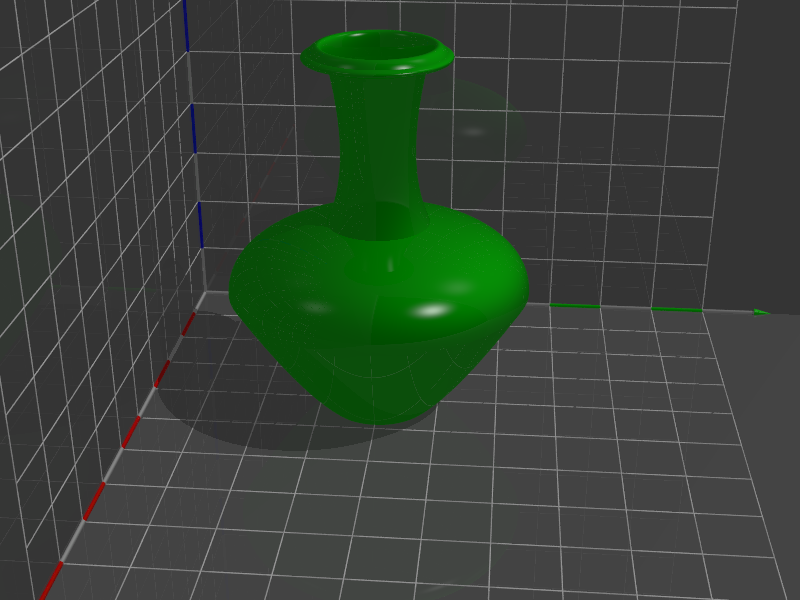
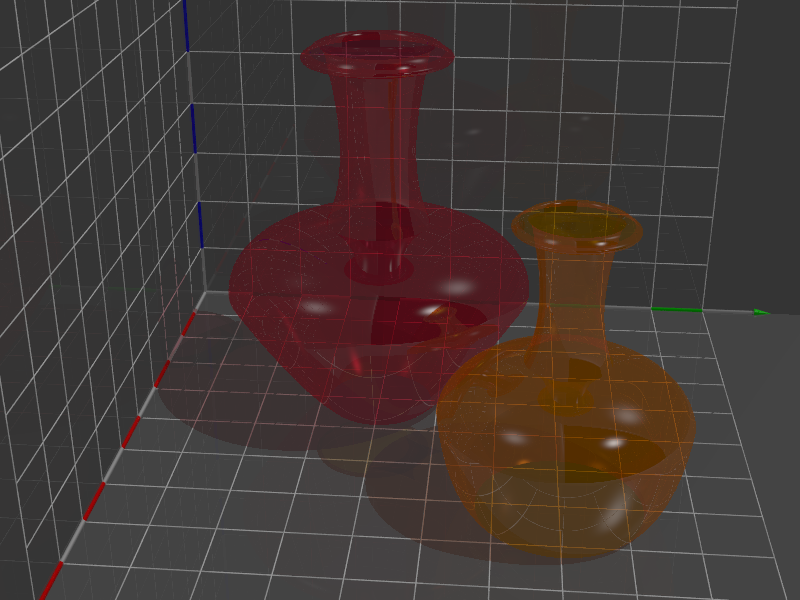
Renaming, example

diff --git a/examples/lathe.m b/examples/lathe.m
@@ -91,7 +91,14 @@ tex_pink  = pov.declare("tex_pink",  pov.texture('pigment', [8 2 3], 'finish', '
 pov.lathe('points', [0.00 0.00; 0.22 0.00; 0.62 0.54; 0.21 0.83; 0.19 1.46; 0.29 1.50; 0.26 1.53],...
         'spline_type', 'quadratic_spline',...
         'sturm', true,...
+        'texture', 'Ruby_Glass',...
         'scale', [4 4 4], 'rotate', [ 90 0 0], 'translate', [4 4 0]);
+
+pov.lathe('points', [0.00 0.00; 0.42 0.00; 0.62 0.54; 0.21 0.83; 0.19 1.46; 0.29 1.50; 0.26 1.53],...
+        'spline_type', 'quadratic_spline',...
+        'sturm', true,...
+        'texture', 'Orange_Glass',...
+        'scale', [3 3 3], 'rotate', [ 90 0 0], 'translate', [7 7 0]);
 
 pov.scene_end();
 img = pov.render();
